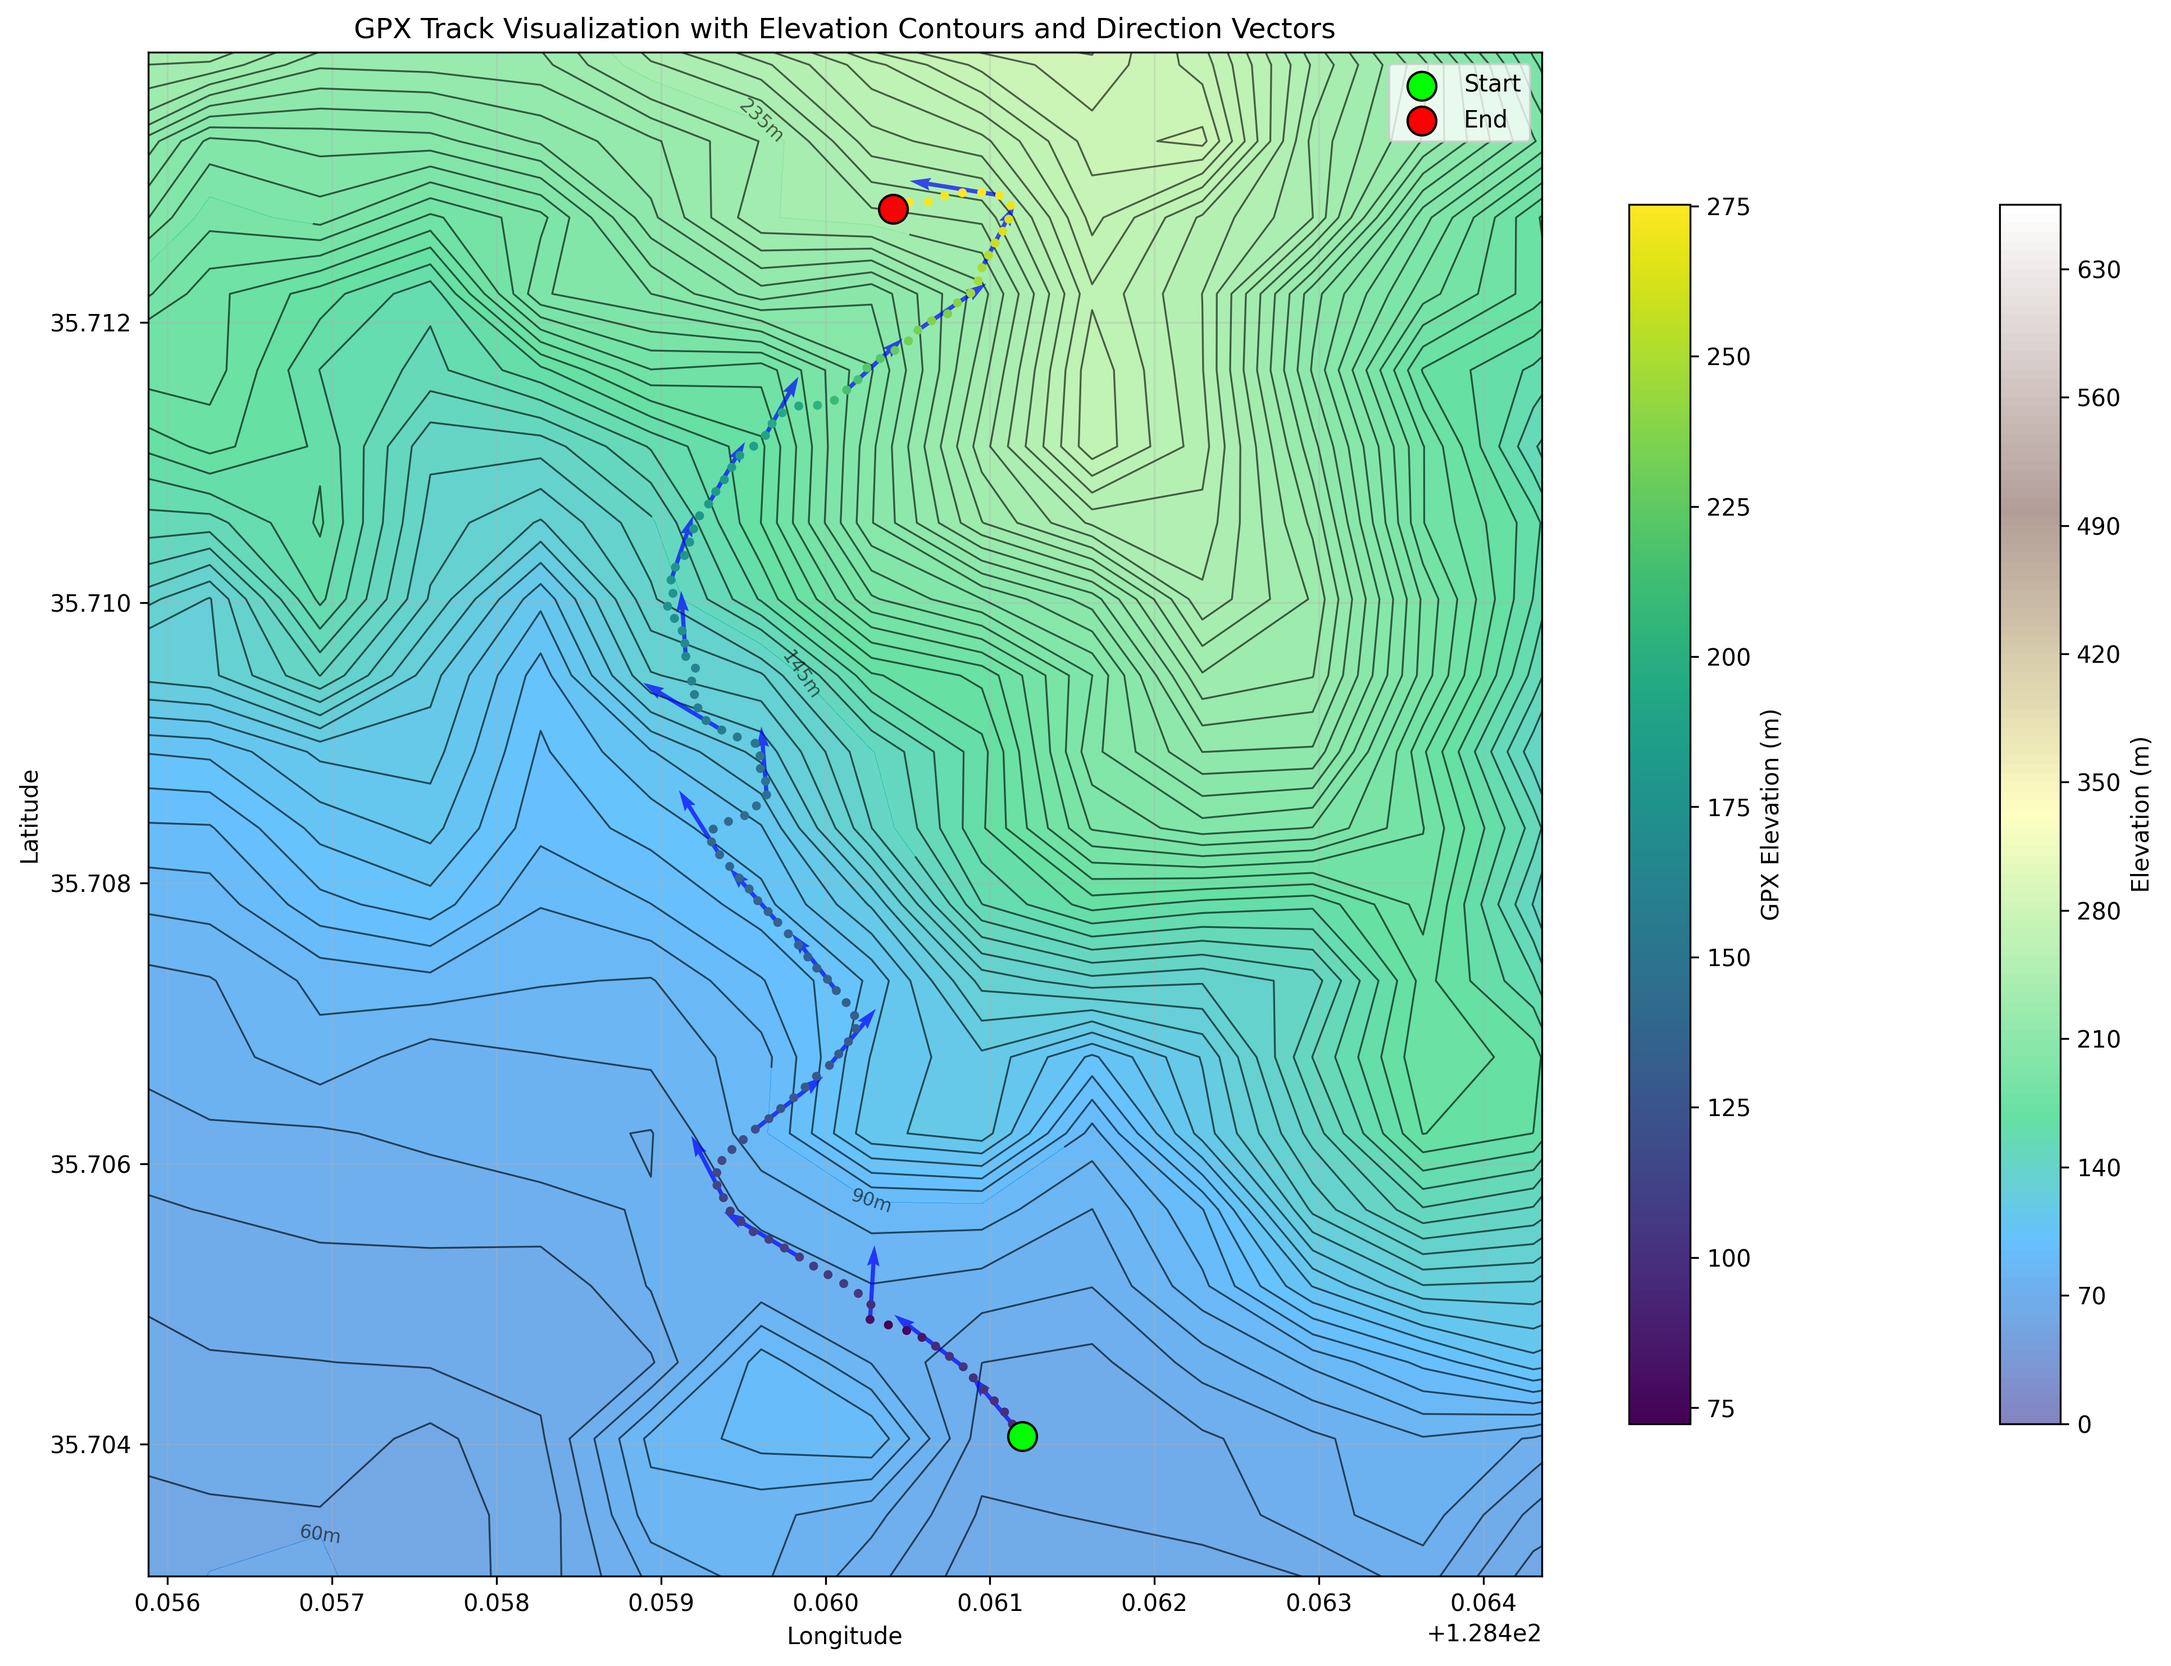
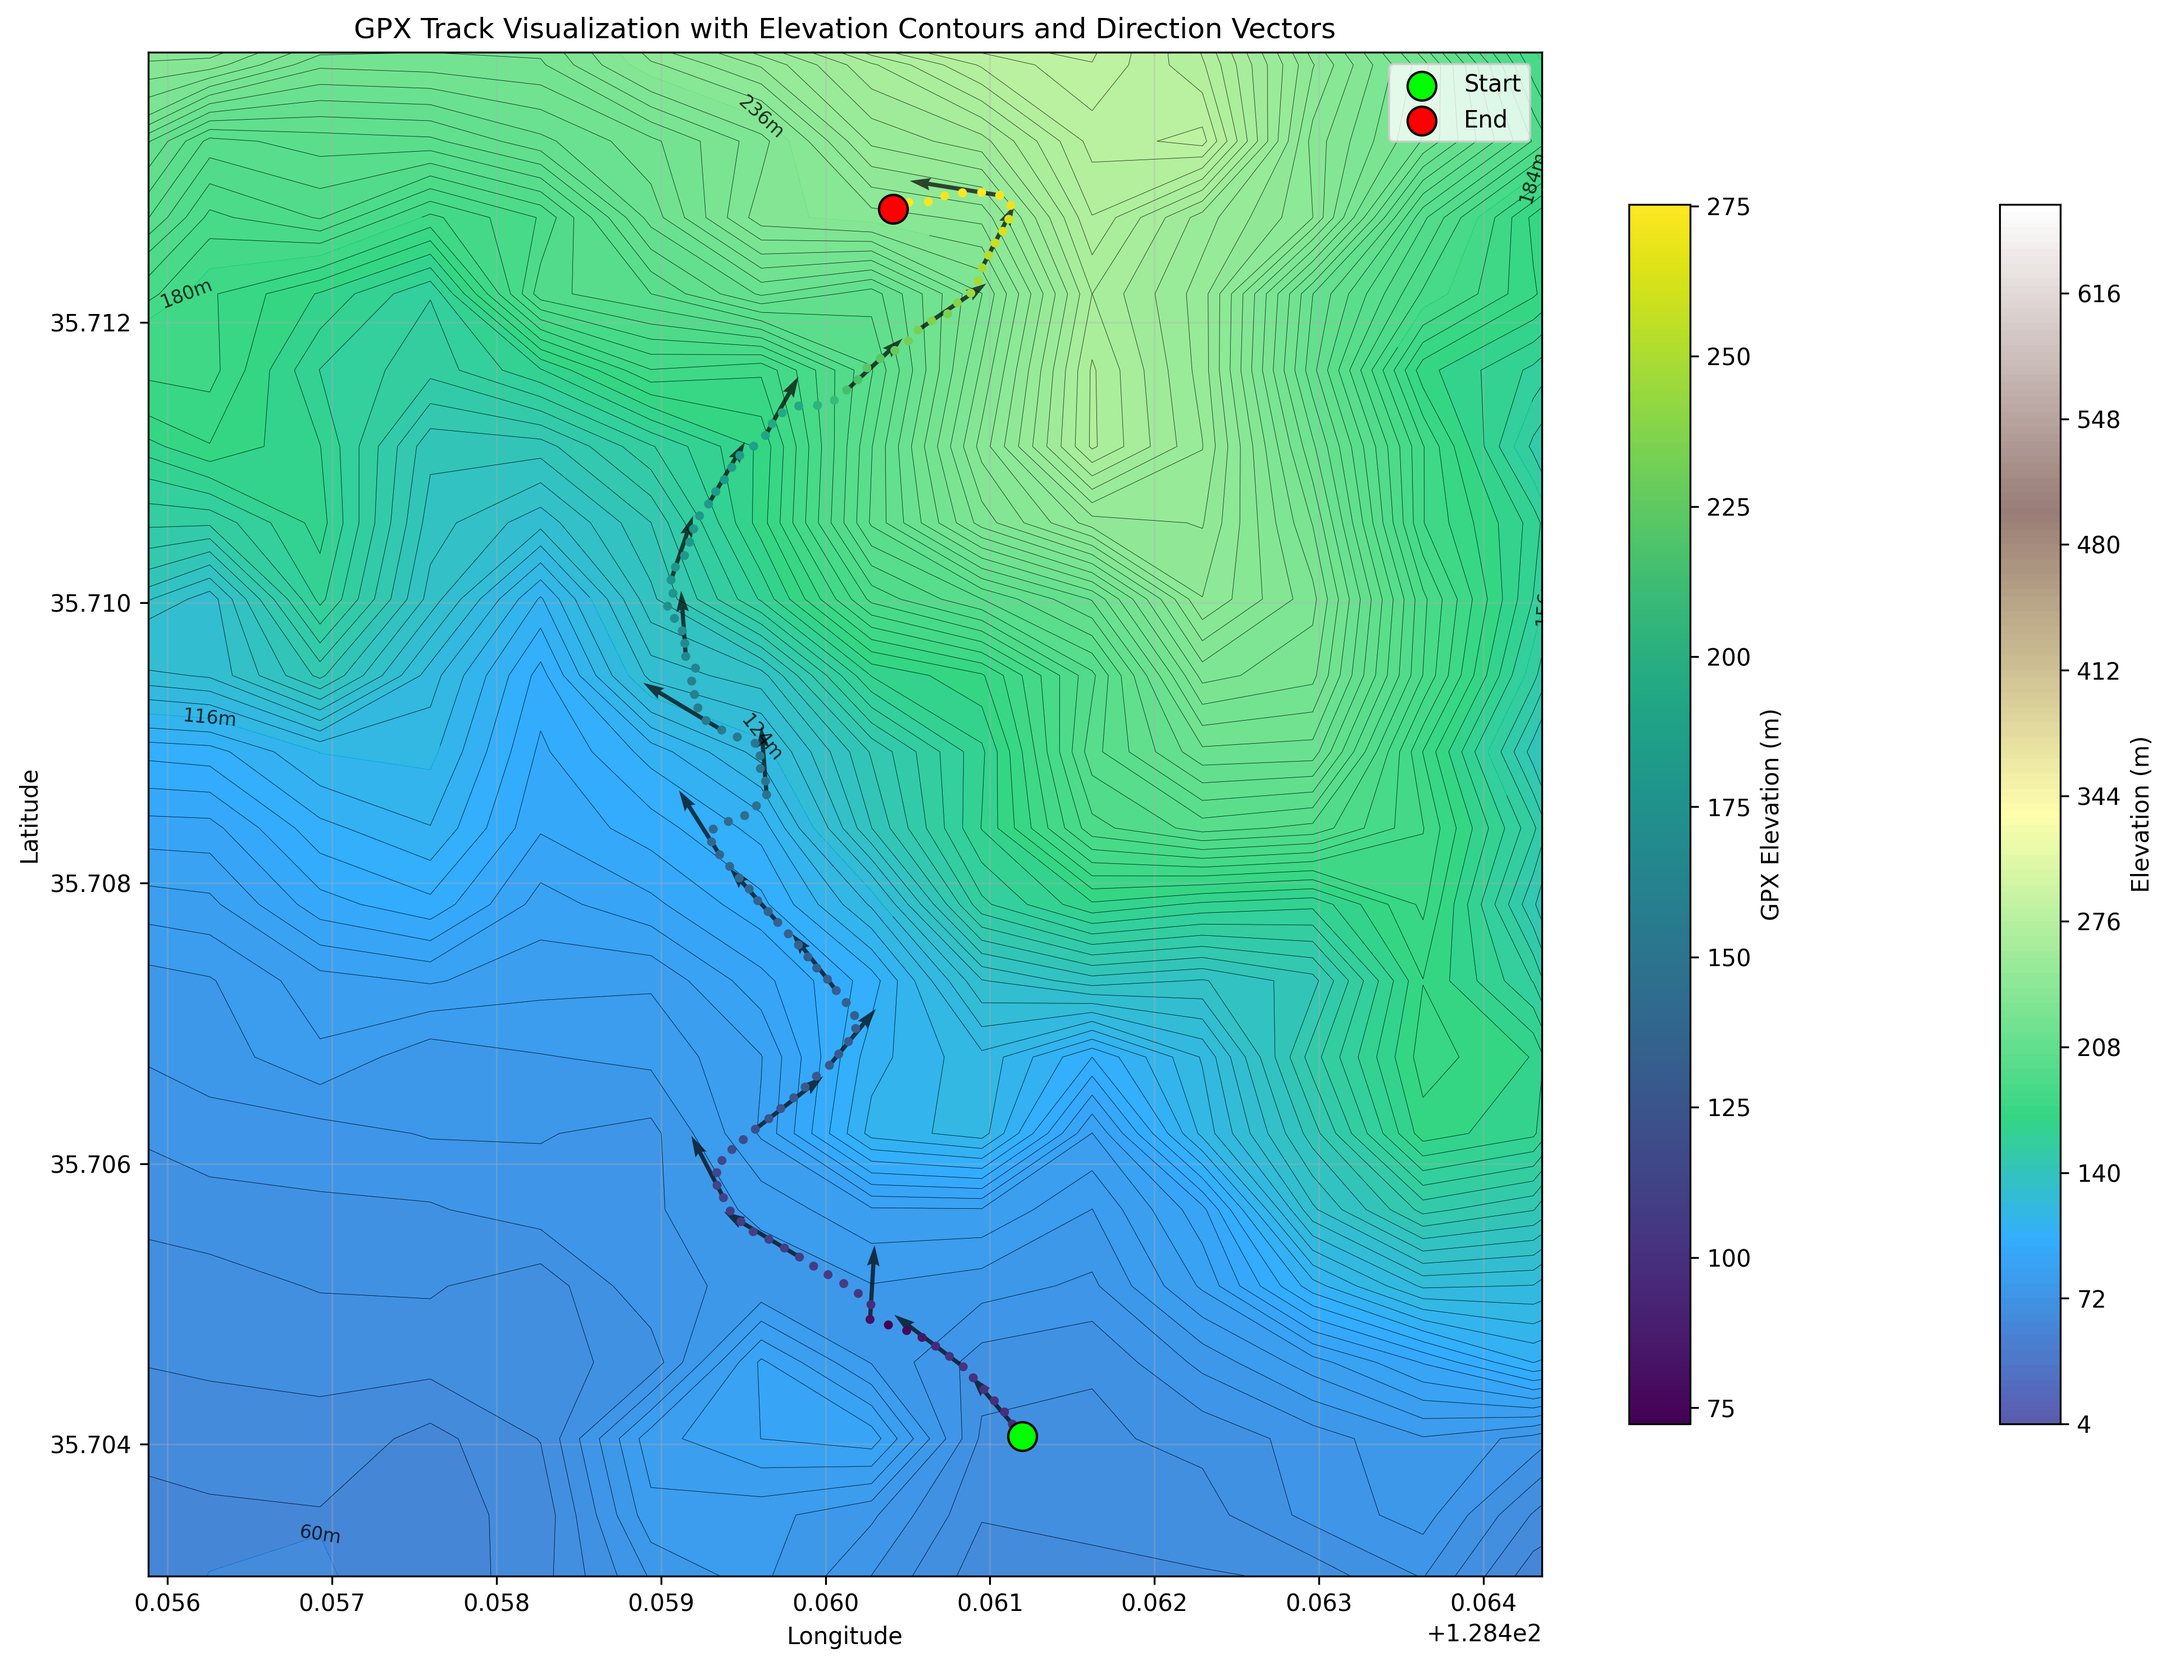
Update contour visualization settings and add ation for Ig Nobel theme

diff --git a/config.py b/config.py
@@ -12,9 +12,9 @@ GRID_SIZE = 100  # Size of elevation grid (GRID_SIZE x GRID_SIZE)
 HALF_SIZE_KM = 3.0  # Half size of area to fetch elevation data (in km)
 
 # Contour visualization settings
-CONTOUR_LEVEL_STEP = 5.0  # Elevation step between contour lines (in meters)
-CONTOUR_ALPHA = 0.6  # Transparency of contour lines
-CONTOUR_LINEWIDTH = 0.8  # Width of contour lines
+CONTOUR_LEVEL_STEP = 4.0  # Elevation step between contour lines (in meters)
+CONTOUR_ALPHA = 0.8  # Transparency of contour lines
+CONTOUR_LINEWIDTH = 0.2  # Width of contour lines
 
 # Caching settings
 ELEVATION_CACHE_ENABLED = True  # Whether to cache elevation data
@@ -24,6 +24,6 @@ ELEVATION_CACHE_DIR = "cache"  # Directory for storing cached elevation data
 VECTOR_SAMPLING_INTERVAL = 3  # Plot vector every N points
 VECTOR_SCALE_FACTOR = 5  # Scale factor for vector lengths to make them visible
 VECTOR_WIDTH = 0.003  # Width of the arrows
-VECTOR_COLOR = 'blue'  # Color of the vectors
+VECTOR_COLOR = 'black'  # Color of the vectors
 VECTOR_ALPHA = 0.7  # Transparency of the vectors
 MAX_VECTOR_DISPLAY = 20  # Maximum number of vectors to display to avoid overcrowding

diff --git a/rese.md b/rese.md
@@ -1,0 +1,54 @@
+
+This is the ultimate Ig Nobel theme! It could be a clever and serious study that scientifically demonstrates “human inefficiency” using real mountaineering data.
+
+The question “Who climbs the mountain most humanly?” perfectly captures the motto of the Ig Nobel Prize: “First make you laugh, then make you think.”
+
+Here is a topic and analysis plan that develops this idea, reinforcing elements of computation and physics, and is worthy of the Ig Nobel Prize:
+
+⛰ Ig Nobel Prize in Bioengineering (or Peace):
+“Finding the Most ‘Human’ Climber Using the Inefficiency Quotient (IQ_Hike)”
+
+Topic:
+“Analysis of GeoTracker data from a three-person climbing team: Measuring the ‘Inefficiency Quotient (IQ_Hike)’ by comparing the actual routes taken against the predicted most efficient route using Gradient Descent. Thus, determining who climbed the most irrationally and most ‘humanly’.”
+
+The main Ig Nobel idea:
+The least efficient climber is the most ‘human’ winner.
+
+The ‘Inefficiency Calculator’ represents the triumph of humanity over the inhuman efficiency of artificial intelligence.
+
+Comparison and analysis plan:
+
+Stage 1: Efficiency benchmark (Algorithm: Optimal Path_GD)
+
+Element Content (Gradient descent) Physics/math. analysis
+Cost function C(x) Cost = (distance) + β (slope) Path in 3D terrain $\mathbf{x}=(x, y, h)$, ∇C minimized
+
+Most efficient path (Path_GD) Fastest and steepest ascent path according to GeoTracker data Path with least work $W_{\min}$
+
+Stage 2: Collect data for each climber
+
+Climber Actual path (Path_Hiker,i) Physics/math. analysis
+Climber i GeoTracker: time, 3D coordinates, speed, rest time Actual work done $W_i$ and path length $L_i$
+
+Stage 3: Calculation of the inefficiency coefficient (IQ_Hike)
+
+The inefficiency calculator combines several indices to give the final value $\text{IQ}_{\text{Hike}}$:
+
+Energy inefficiency index (IQ_E):
+Formula: $IQ_E = \frac{W_i - W_{\min}}{W_{\min}}$
+Meaning: how much more energy was spent compared to the least energy path.
+
+Path irrationality index (IQ_L):
+Formula: $IQ_L = \frac{L_i - L_{GD}}{L_{GD}}$
+Meaning: the distance traveled in excess of the most efficient path (e.g., "taking a detour to see the view").
+
+Inefficiency Index of Joy Acceleration (IQ_A):
+Formula: The variance of the absolute values of acceleration.
+Meaning: It reflects the nonlinear, emotional movements of a person, which suddenly stop and accelerate again.
+
+Final Inefficiency Coefficient:
+$IQ_{\text{Hike}} = (IQ_E \times w_E) + (IQ_L \times w_L) + (IQ_A \times w_A)$
+
+The climber with the highest $\text{IQ}_{\text{Hike}}$ value will be declared the "most human climber"!
+
+This study finally scientifically proves that "the most efficient climb is the most boring climb." In the era of artificial intelligence efficiency, it shows the value of human inefficiency and could be a worthy candidate for the Ig Nobel Prize.
